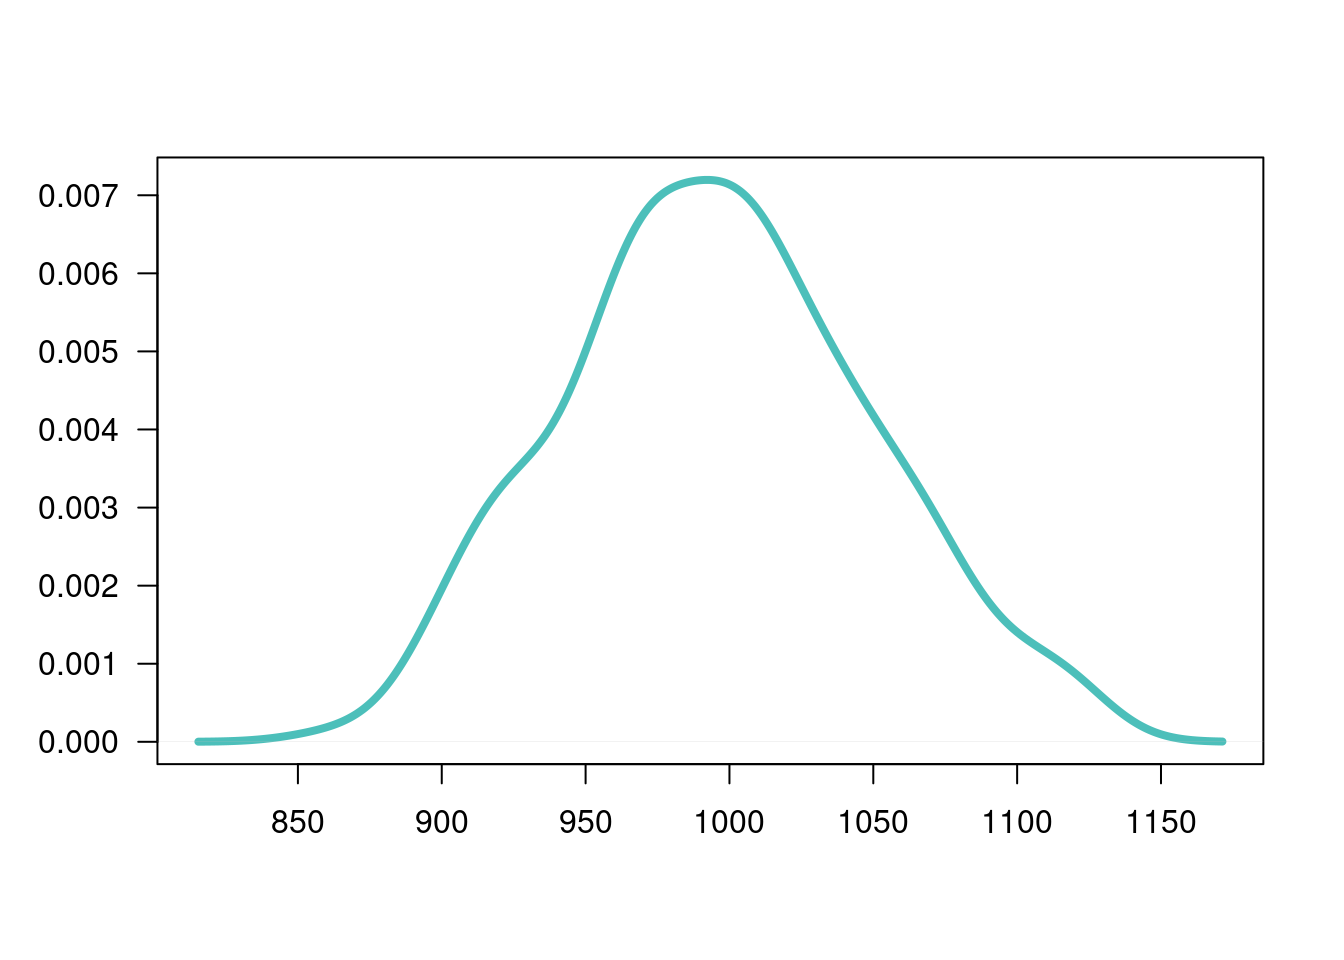
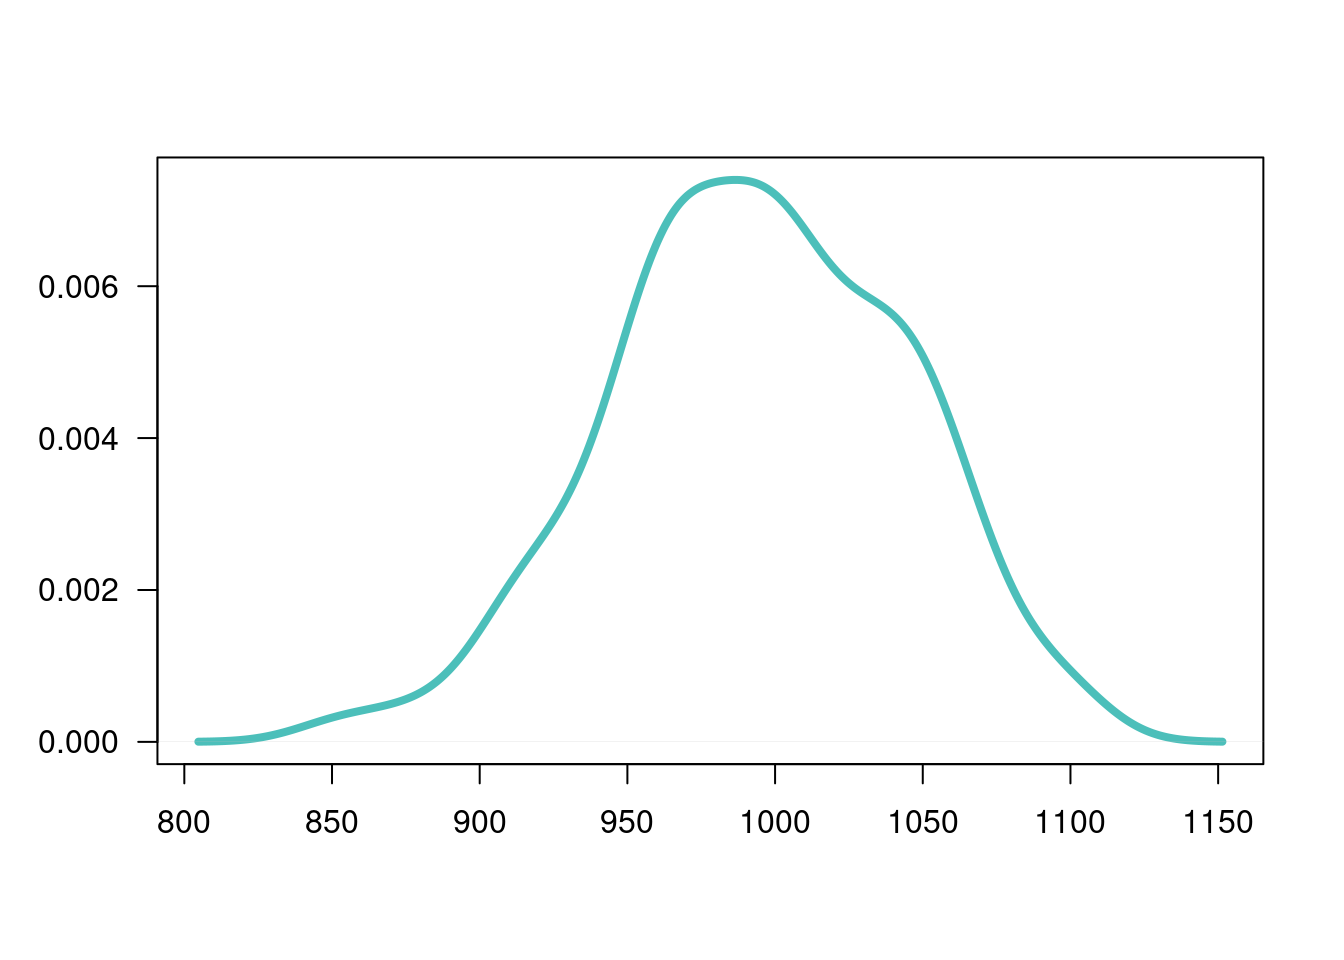
add video 2 guia 4.3

diff --git a/Guia403.html b/Guia403.html
@@ -520,6 +520,9 @@ div.tocify {
       <a href="TallerIC.html">Taller IC</a>
     </li>
     <li>
+      <a href="Taller_pruebas1.html">Taller Pruebas 1</a>
+    </li>
+    <li>
       <a href="Guia_trabajo.html">Trabajo final</a>
     </li>
   </ul>
@@ -1891,8 +1894,8 @@ runs.test(y)</code></pre>
     Runs Test
 
 data:  y
-statistic = 0.80407, runs = 55, n1 = 50, n2 = 50, n = 100, p-value =
-0.4214
+statistic = 0.40204, runs = 53, n1 = 50, n2 = 50, n = 100, p-value =
+0.6877
 alternative hypothesis: nonrandomness</code></pre>
 <p><strong>Conclusión</strong></p>
 <p>Como el valor-p (0.3149) es mayor al nivel de significancia, no se rechaza la hipótesis nula, no existe suficiente evidencia en la muestra que permita rechazarla, asumimos que los datos son aleatorios.</p>
@@ -1912,7 +1915,7 @@ plot(density(x), main=&quot; &quot;, las=1, xlab = &quot; &quot;, ylab=&quot; &q
     Shapiro-Wilk normality test
 
 data:  x
-W = 0.99242, p-value = 0.3888</code></pre>
+W = 0.99255, p-value = 0.4034</code></pre>
 <p>Esta prueba no requiere la instalación de paquetes adicionales, pues está disponible en la configuración básica de R</p>
 <p>Como el valor-p es superior al nivel de significancia <span class="math inline">\(\alpha\)</span>, no se rechaza <span class="math inline">\(Ho\)</span>, se asume que la distribución de la variable es normal.</p>
 <p>Otras pruebas de normalidad utilizadas con frecuencia son:</p>
@@ -1924,19 +1927,19 @@ jb.norm.test(x)  # Test de normalidad de Jarque-Bera</code></pre>
     Jarque-Bera test for normality
 
 data:  x
-JB = 1.9013, p-value = 0.342</code></pre>
+JB = 1.5773, p-value = 0.3935</code></pre>
 <pre class="r"><code>kurtosis.norm.test(x)</code></pre>
 <pre><code>
     Kurtosis test for normality
 
 data:  x
-T = 2.6153, p-value = 0.219</code></pre>
+T = 2.8035, p-value = 0.546</code></pre>
 <pre class="r"><code>skewness.norm.test(x)   </code></pre>
 <pre><code>
     Skewness test for normality
 
 data:  x
-T = 0.14156, p-value = 0.405</code></pre>
+T = -0.19408, p-value = 0.24</code></pre>
 <pre class="r"><code># install.packages(&quot;nortets&quot;)
 library(nortest)
 
@@ -1945,13 +1948,13 @@ lillie.test(x) # Kolmogorov-Smirnov</code></pre>
     Lilliefors (Kolmogorov-Smirnov) normality test
 
 data:  x
-D = 0.031575, p-value = 0.8969</code></pre>
+D = 0.038325, p-value = 0.6728</code></pre>
 <pre class="r"><code>pearson.test(x) # chi-cuadrado de Pearson</code></pre>
 <pre><code>
     Pearson chi-square normality test
 
 data:  x
-P = 14.03, p-value = 0.4475</code></pre>
+P = 11.48, p-value = 0.648</code></pre>
 <p><br/><br/></p>
 <p><br/><br/><br/><br/></p>
 </div>
@@ -2309,8 +2312,17 @@ P = 14.03, p-value = 0.4475</code></pre>
 </div>
 <div id="video" class="section level1">
 <h1><strong>Video</strong></h1>
+<div id="video-paramétricas" class="section level2">
+<h2><strong>Video paramétricas</strong></h2>
 <iframe width="560" height="315" src="https://www.youtube.com/embed/phUkdjdj95c" title="YouTube video player" frameborder="0" allow="accelerometer; autoplay; clipboard-write; encrypted-media; gyroscope; picture-in-picture" allowfullscreen>
 </iframe>
+<p><br/><br/></p>
+</div>
+<div id="video-no-paramétricas" class="section level2">
+<h2><strong>Video no paramétricas</strong></h2>
+<iframe width="560" height="315" src="https://www.youtube.com/embed/m3YIdS2TVHk" title="YouTube video player" frameborder="0" allow="accelerometer; autoplay; clipboard-write; encrypted-media; gyroscope; picture-in-picture" allowfullscreen>
+</iframe>
+</div>
 </div>
 <div id="tutorial" class="section level1">
 <h1><strong>Tutorial</strong></h1>
